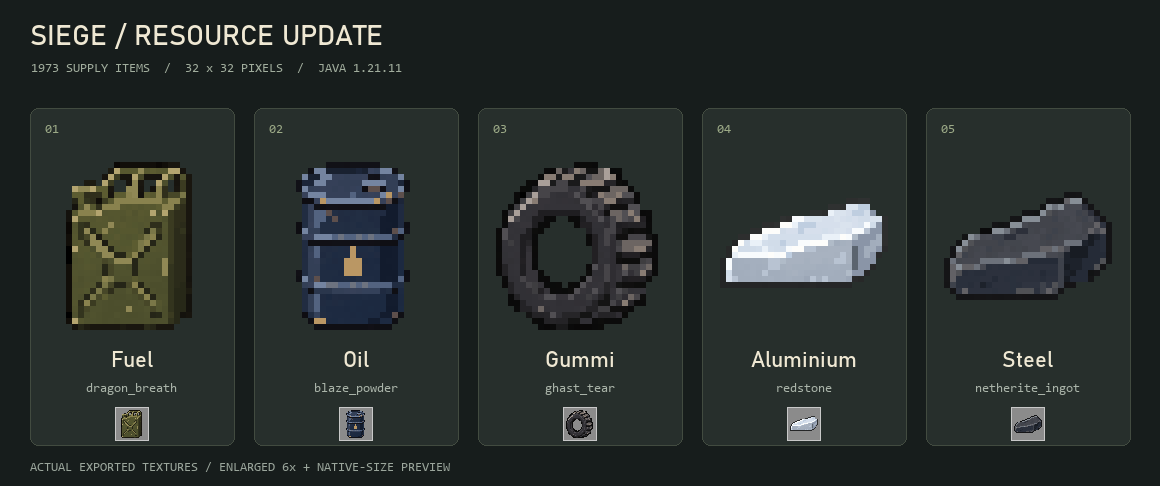
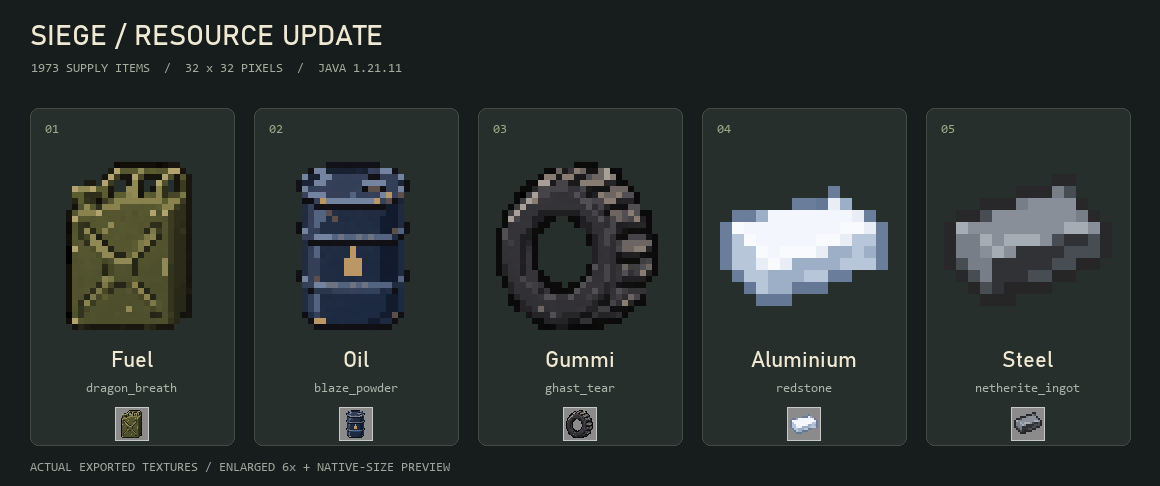
Bug: Fix steel and aluminium ingot readability

diff --git a/README.md b/README.md
@@ -19,13 +19,16 @@ bleibt als unveränderte Vorgängerversion verfügbar.
 | `minecraft:dragon_breath` | Fuel | Olivgrüner Treibstoffkanister mit X-Verstärkung |
 | `minecraft:blaze_powder` | Oil | Dunkles Ölfass mit Rippen und Tropfensymbol |
 | `minecraft:ghast_tear` | Gummi | Schwarzer Gummireifen mit grobem Profil |
-| `minecraft:redstone` | Aluminium | Heller silberner Aluminiumbarren |
-| `minecraft:netherite_ingot` | Steel | Dunkler Stahlbarren mit Walzhaut |
+| `minecraft:redstone` | Aluminium | Sauberer, heller silberblauer Minecraft-Barren |
+| `minecraft:netherite_ingot` | Steel | Sauberer, dunkelgrauer Minecraft-Barren mit heller Metallkante |
 
 ![Vorschau der fünf fertigen 32×32-Texturen](docs/resources-preview.png)
 
 Die Texturen sind 32×32-Pixel-PNGs mit transparentem Hintergrund. Die normalen
 Gegenstände erhalten die neuen Modelle ohne `CustomModelData` oder zusätzliche Mods.
+Aluminium und Steel orientieren sich an der klassischen Minecraft-Ingot-Form:
+große, ruhige Farbflächen ohne Flecken oder Rost. Die Barren verwenden ein
+16×16-Pixelraster, das ohne Glättung auf 32×32 Pixel vergrößert wurde.
 Die Anzeigenamen gelten in Deutsch, Englisch (US) und Englisch (UK).
 Minecraft-IDs, Rezepte und Spielmechaniken bleiben bestehen; platziertes Redstone bleibt Redstone.
 Serverseitig gesetzte eigene Namen oder `item_model`-Komponenten haben weiterhin Vorrang.
@@ -39,7 +42,7 @@ Diese beiden Werte in der bestehenden `server.properties` setzen und den Server 
 
 ```properties
 resource-pack=https://raw.githubusercontent.com/Siegemc/Siege-Ressourcepack/main/Siege-Yom-Kippur-1.21.11-v1.4-resources.zip
-resource-pack-sha1=ab9b08bba19267e0b9de80f8c7886c9266c587f7
+resource-pack-sha1=f90fa3713a84a778b1ffc84e860f698e99aeafcc
 ```
 
 Die gleichen Werte stehen in `server.properties.example`. Bei einem Hosting-Panel
@@ -90,8 +93,8 @@ Erhalt sämtlicher nicht überschriebener Originaldateien.
 ## Paketdaten
 
 - Datei: `Siege-Yom-Kippur-1.21.11-v1.4-resources.zip`
-- Größe: 5.952.914 Bytes
-- SHA-1: `ab9b08bba19267e0b9de80f8c7886c9266c587f7`
+- Größe: 5.951.609 Bytes
+- SHA-1: `f90fa3713a84a778b1ffc84e860f698e99aeafcc`
 - Ressourcenpaket-Format: 75 (Minecraft Java 1.21.11)
 - `pack.mcmeta` und `assets/` liegen direkt im ZIP-Hauptverzeichnis.
 
